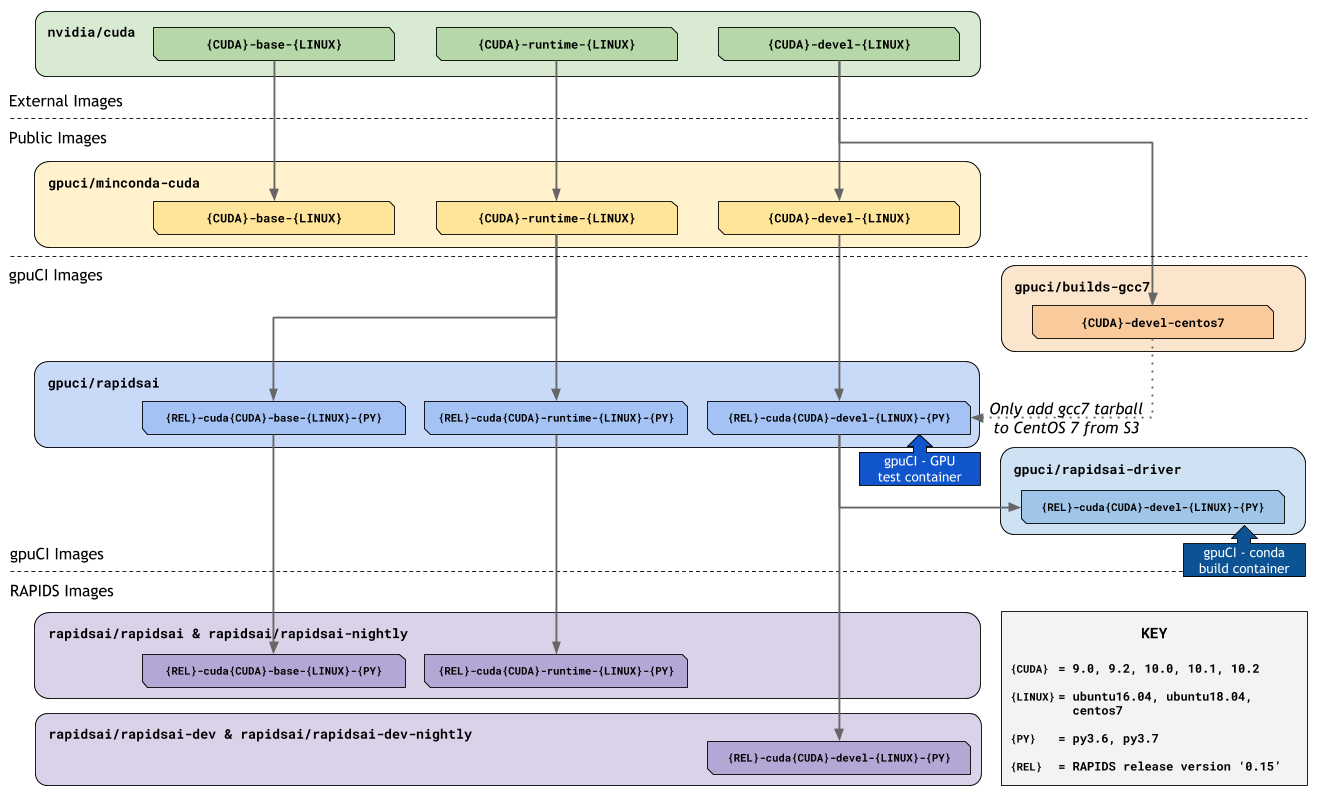
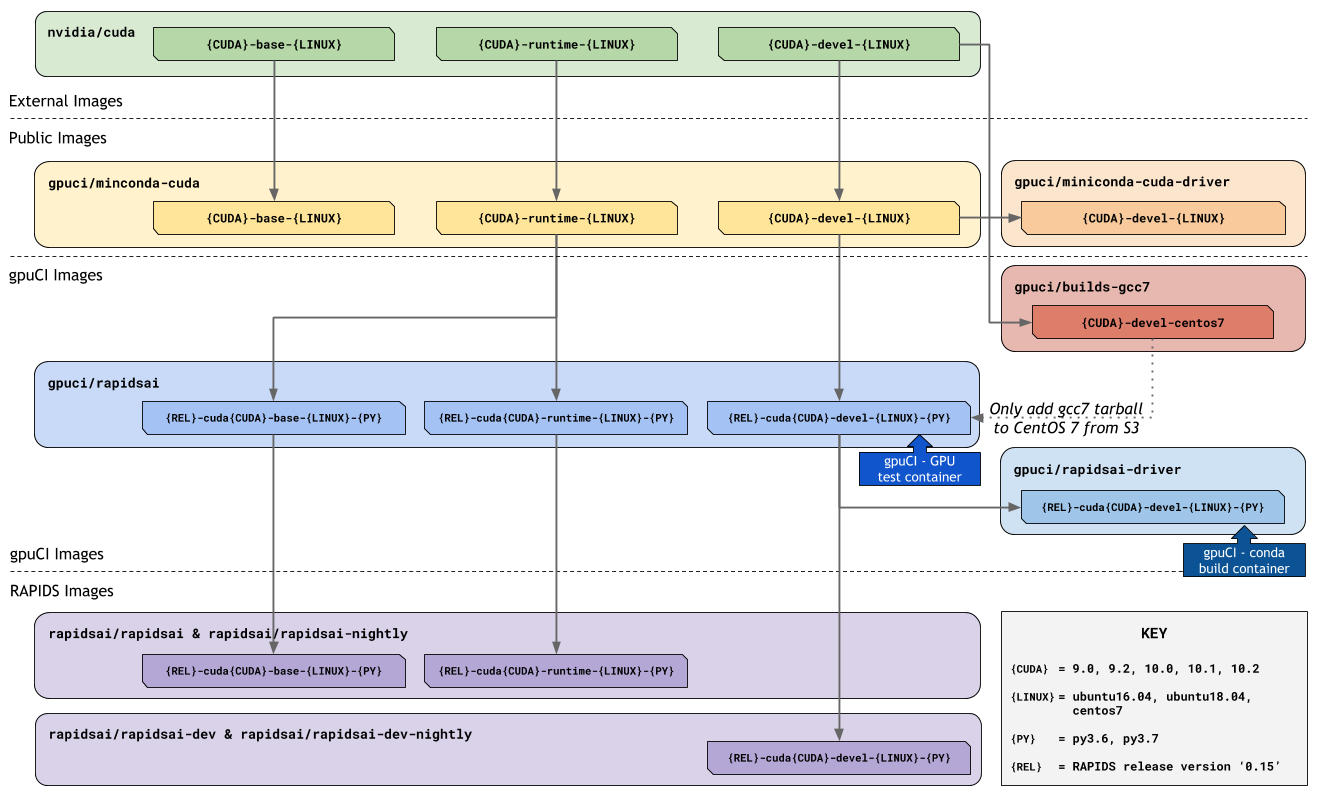
DOC Detail new miniconda-cuda-driver image

Changed region(s): [[0.6207, 0.1509, 0.9932, 0.4528]]

diff --git a/README.md b/README.md
@@ -18,7 +18,9 @@ destination image.
 The `gpuci/miniconda-cuda` image is the base layer that all gpuCI testing and
 RAPIDS release containers are built off of. This image also serves as a public
 image for those who want a one-to-one compatible `nvidia/cuda` image with
-`miniconda` installed. Below is a description of the image and how it is built.
+`miniconda` installed. In addition `gpuci/miniconda-cuda` is provided for
+`ubuntu16.04` *only* with a minimum set of conda build utilities and the NVIDIA
+driver installed to allow for CPU-only conda builds of most CUDA code.
 
 ### [![Build Status](https://gpuci.gpuopenanalytics.com/buildStatus/icon?job=gpuci%2Fdocker%2Fminiconda-cuda)](https://gpuci.gpuopenanalytics.com/job/gpuci/job/docker/job/miniconda-cuda/) `gpuci/miniconda-cuda`
 
@@ -45,6 +47,30 @@ image for those who want a one-to-one compatible `nvidia/cuda` image with
 - Tag format - `${CUDA_VER}-${IMAGE_TYPE}-${LINUX_VER}`
   - Supports the same options as defined in **Build arguments**
   - Current [tags](https://hub.docker.com/r/gpuci/miniconda-cuda/tags)
+
+### [![Build Status](https://gpuci.gpuopenanalytics.com/buildStatus/icon?job=gpuci%2Fdocker%2Fminiconda-cuda-driver)](https://gpuci.gpuopenanalytics.com/job/gpuci/job/docker/job/miniconda-cuda-drvier/) `gpuci/miniconda-cuda-driver`
+
+- Repo location
+  - [`gpuci/miniconda-cuda-driver`](https://hub.docker.com/r/gpuci/miniconda-cuda-driver/tags) 
+- Dockerfile
+  - [`Dockerfile`](miniconda-cuda-driver/Dockerfile)
+- Build arguments
+  - Depends on upstream `nvidia/cuda` combinations
+    - `CUDA_VER` - `10.0`, `10.1`, `10.2`
+    - `IMAGE_TYPE` - `devel`
+    - `LINUX_VER` - `ubuntu16.04` - *only* version currently supported
+  - Other arguments
+    - `FROM_IMAGE` - `gpuci/miniconda-cuda`
+- Base image
+  - `FROM ${FROM_IMAGE}:${CUDA_VER}-${IMAGE_TYPE}-${LINUX_VER}`
+    - Default - `gpuci/miniconda-cuda:10.2-devel-ubuntu16.04`
+- Purpose
+  - Adds tools needed for conda builds and uploads
+  - Installs the NVIDIA driver for CPU-only builds of most CUDA code
+  - Activates the `base` conda environment on launch
+- Tag format - `${CUDA_VER}-devel-ubuntu16.04`
+  - Supports the same options as defined in **Build arguments**
+  - Current [tags](https://hub.docker.com/r/gpuci/miniconda-cuda-driver/tags)
 
 ## gpuCI Images
 
